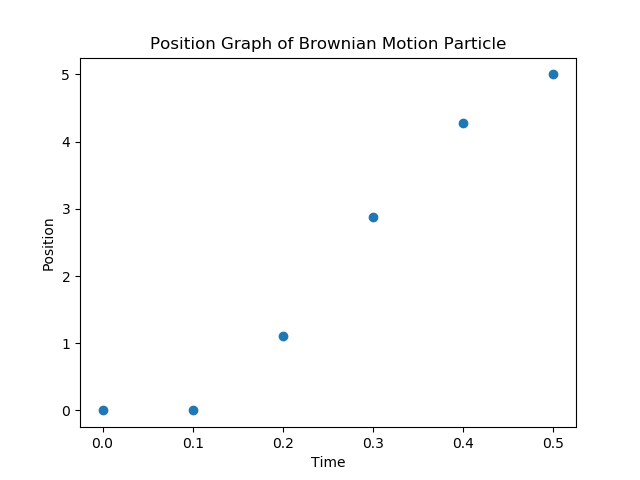
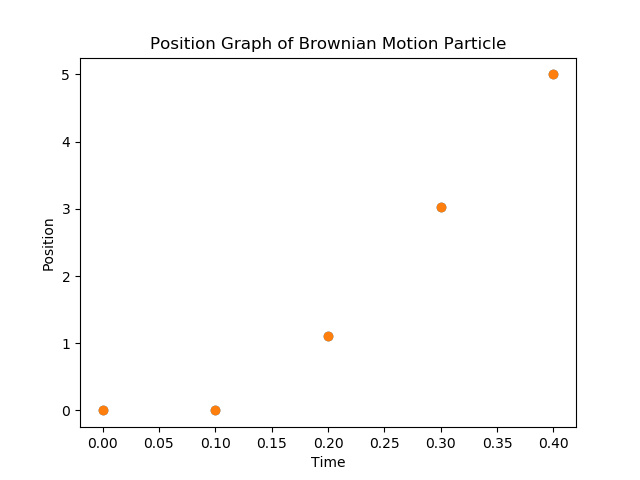
added histogram

diff --git a/langevin/langevin.py b/langevin/langevin.py
@@ -85,30 +85,61 @@ def run(args):
             position_array.append(5) #fudge last point for graphing purposes
             break
         if position_array[-1]<0:
-            del position_array[-1] 
-            position_array.append(0)
+            del position_array[-1] #see above
+            position_array.append(0) #for graphing
             break
     write_output(index_array,velocity_array,position_array,time_array,args.output)
-    print(velocity_array[-1],position_array[-1], args.output)
+    #print(velocity_array[-1],position_array[-1], args.output)
+    
+    
+    figposition=plt.figure()
+    position=figposition.add_subplot(111)
+    position.plot(time_array, position_array, 'o')
+    position.set_xlabel('Time')
+    position.set_ylabel('Position')
+    position.set_title('Position Graph of Brownian Motion Particle')
+    figposition.savefig('trajectory.png')
     
     
     
-    plt.plot(time_array, position_array, 'o')
+    return [position_array, time_array, velocity_array]
+
+def hist(args):
+    count=0
+    times=[]
+    while count<100:
+        result=run(args)
+        if result[0][-1]==5:
+            times.append(result[1][-1])
+            count+=1
+        
+    plt.plot(result[1], result[0], 'o')
     plt.xlabel('Time')
     plt.ylabel('Position')
     plt.title('Position Graph of Brownian Motion Particle')
     plt.savefig('trajectory.png')
+    plt.clf()
     
     
     
-    return [position_array, time_array]
+    plt.hist(times)
+    plt.xlabel('times')
+    plt.ylabel('number of occurances')
+    plt.title('histogram of wall times')
+    plt.savefig('histogram.png')
     
-def main():
+    plt.clf()
+    
+    
+    
+    print(result[2][-1],result[0][-1], args.output)
+    return times
+def main(): #pragma: no cover
     args=parse_arguments()
-    run(args)
+    hist(args)
         
 if __name__=='__main__':
-    main()
+    main() #pragma: no cover
         
         
     

diff --git a/langevin/tests/test_langevin.py b/langevin/tests/test_langevin.py
@@ -105,3 +105,18 @@ class MyTestCase(unittest.TestCase):
         a=langevin.check_in_bounds(4)
         assert a is True
         
+def test_hist():
+    class args:
+        def __init__():
+            pass
+
+        time_step = .1
+        total_time = 100.0
+        initial_position = 0
+        initial_velocity = 10
+        damping_coefficient = 1.0
+        temperature = 1.0
+        output=test_dir+r'output_test.txt'
+    v=langevin.hist(args)
+    assert len(v)==100
+    
